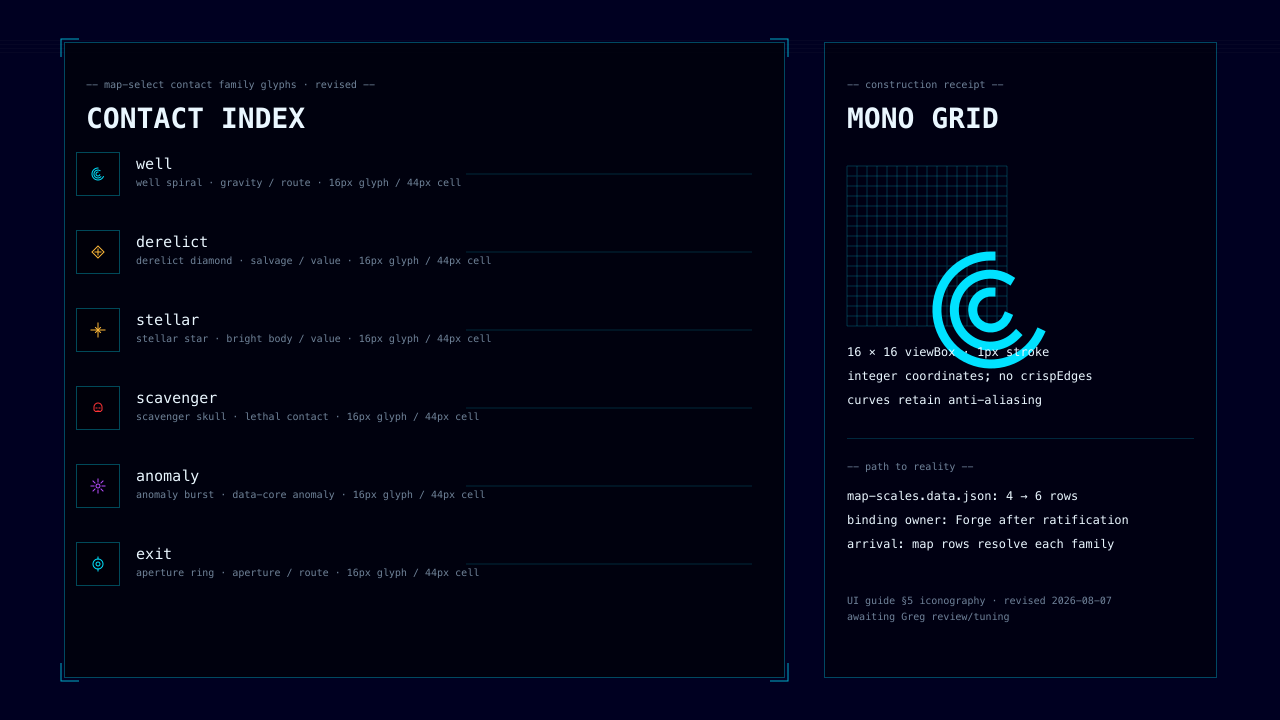
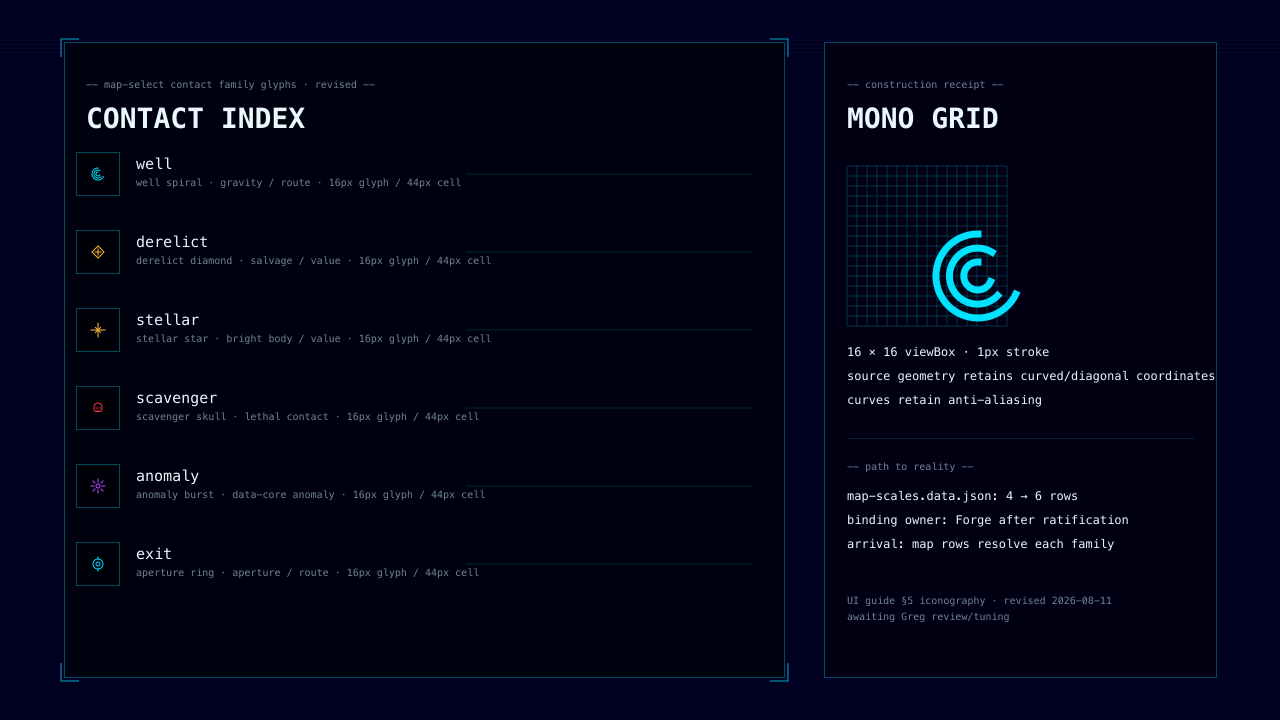
Mosaic: close map contact aggregate gaps

Changed region(s): [[0.6562, 0.3056, 0.8125, 0.55], [0.8125, 0.5194, 0.9375, 0.55]]

diff --git a/src/ui/map-select-survey.js b/src/ui/map-select-survey.js
@@ -156,6 +156,8 @@ function surveyAggregates(map, registry, rng) {
     gravityWells: range(Math.max(2, Math.round(wellCount * 0.58)), Math.max(4, Math.ceil(wellCount * 1.18)), rng, Math.max(1, Math.round(scaleFactor))),
     derelictFields: range(Math.max(3, Math.round(wreckCount * 0.48)), Math.max(6, Math.ceil(wreckCount * 0.92)), rng, Math.max(1, Math.round(scaleFactor))),
     stellarContacts: range(Math.max(1, Math.round(starCount * 0.42)), Math.max(3, Math.ceil(starCount * 0.86)), rng, 1),
+    scavengerContacts: range(Math.max(1, Math.round(wreckCount * 0.20)), Math.max(2, Math.ceil(wreckCount * 0.44)), rng, 1),
+    anomalyContacts: range(Math.max(1, Math.round(wellCount * 0.16)), Math.max(2, Math.ceil(wellCount * 0.34)), rng, 1),
     possibleExits: range(1, deepExitMax(registry), rng, 1),
   };
 }
@@ -226,7 +228,7 @@ export function sanitizeSurveyPreview(candidate) {
       }))
       : [],
   };
-  for (const key of ['gravityWells', 'derelictFields', 'stellarContacts', 'possibleExits']) {
+  for (const key of ['gravityWells', 'derelictFields', 'stellarContacts', 'scavengerContacts', 'anomalyContacts', 'possibleExits']) {
     safe.aggregateRanges[key] = {
       min: Math.max(0, Math.floor(Number(aggregates[key]?.min) || 0)),
       max: Math.max(0, Math.floor(Number(aggregates[key]?.max) || 0)),

diff --git a/docs/project/reviews/2026-08-04-mosaic-map-contact-icons-draft.md b/docs/project/reviews/2026-08-04-mosaic-map-contact-icons-draft.md
@@ -5,7 +5,7 @@
 - **Binding owner:** Forge — dispatch after Greg ratifies this package.
 - **Binding status:** `awaiting Greg review/tuning`.
 - **Provenance:** hand-authored original SVG by Mosaic; no generated or external source material. `provenance-manifest.json` records actual 2026-08-07 verification timestamps.
-- **Path to reality:** this revision changes `src/content/map-scales.data.json` from four survey `contents` rows to six, adding `scavengerContacts` and `anomalyContacts`. Forge’s binding slice must make the map-select renderer resolve those range keys and load these six SVGs into the existing 44×44 contact cells.
+- **Path to reality:** `src/content/map-scales.data.json` expands survey `contents` from four to six rows, adding `scavengerContacts` and `anomalyContacts`; `src/ui/map-select-survey.js` now emits and sanitizes both aggregates. Forge’s post-ratification binding slice still loads these six SVGs into the existing 44×44 contact cells.
 - **Arrival test:** on a map-select capture, each of well, derelict, stellar, scavenger, anomaly, and exit appears once as its named glyph paired with text in a 44×44 cell; the new rows resolve non-placeholder ranges; a true-16px sheet remains distinguishable.
 
 ## Exact paths
@@ -19,7 +19,7 @@
 
 - Well is two turns (three nested arcs), not four.
 - Skull is silhouette, two eyes, and one jaw line: three elements; no teeth.
-- All glyph coordinates are integer-snapped; `shape-rendering="crispEdges"` is removed from curved and diagonal glyphs.
+- `shape-rendering="crispEdges"` is removed from curved and diagonal glyphs. Curved/diagonal source geometry is retained rather than falsely claimed as pixel-snapped.
 - Stellar is an eight-ray asterisk; anomaly is a cardinal/diagonal burst with a circular core — not the same construction.
 - Specimen uses panel fill `rgba(0,2,10,.78)`, panel backing `rgba(0,0,8,.56)`, derelict/stellar amber, scavenger danger red, anomaly violet, and route cyan only for well/exit/structure.
 
@@ -27,7 +27,7 @@
 
 | ID | Evidence | Result |
 |---|---|---|
-| C1 | Active colors are semantic: cyan (well/exit/structure), amber (derelict/stellar value), red (scavenger threat), violet (anomaly). The specimen is a multi-family reference board, so its four role colors are intentional and each on-meaning. | PASS WITH REFERENCE-BOARD WAIVER |
+| C1 | Reference-board colors are semantic: cyan (well/exit/structure), amber (derelict/stellar value), red (scavenger threat), violet (anomaly). This check covers the specimen only; runtime rows must independently obey the two-role screen budget. | PASS WITH REFERENCE-BOARD WAIVER |
 | C2 | All fills/strokes are from UI guide §2.1: `#000021`, `rgba(0,2,10,.78)`, `rgba(0,0,8,.56)`, cyan, amber, red, violet, bone/text neutrals. | PASS |
 | L1 | Every intended contact cell is 44×44; every glyph has a 16×16 viewBox and is centered at a 14px inset. | PASS |
 
